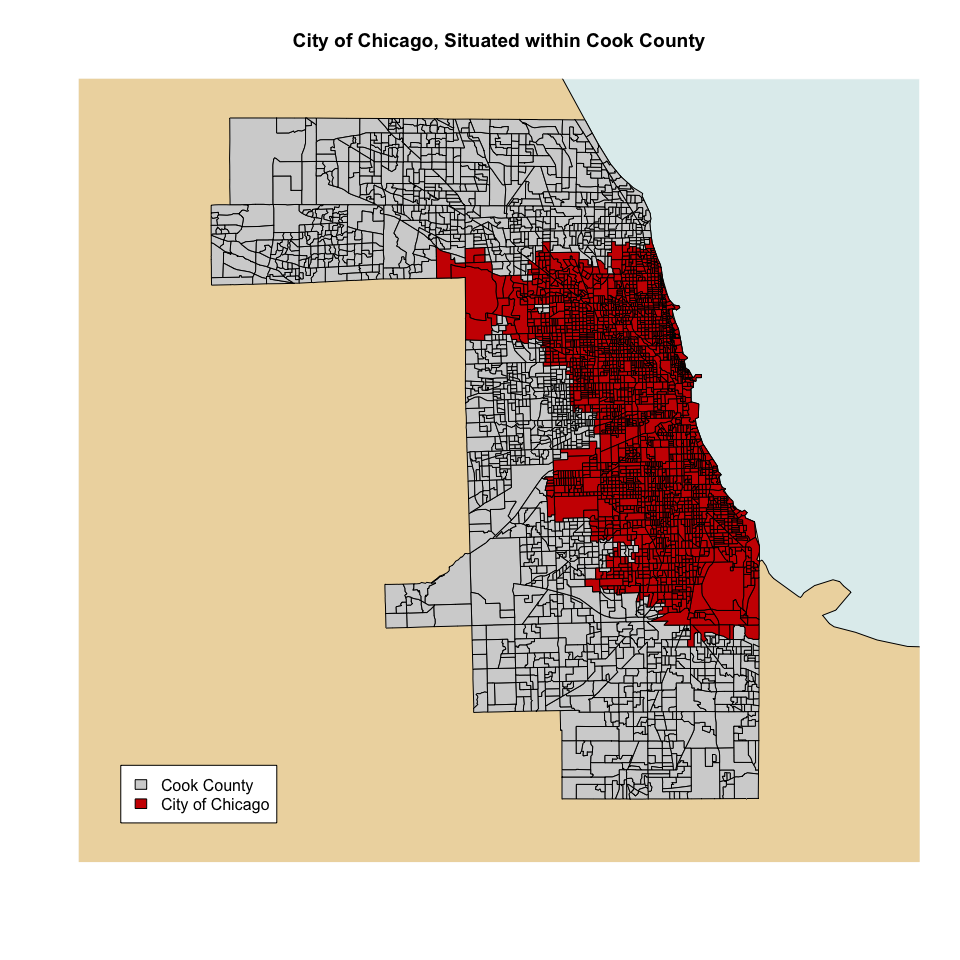
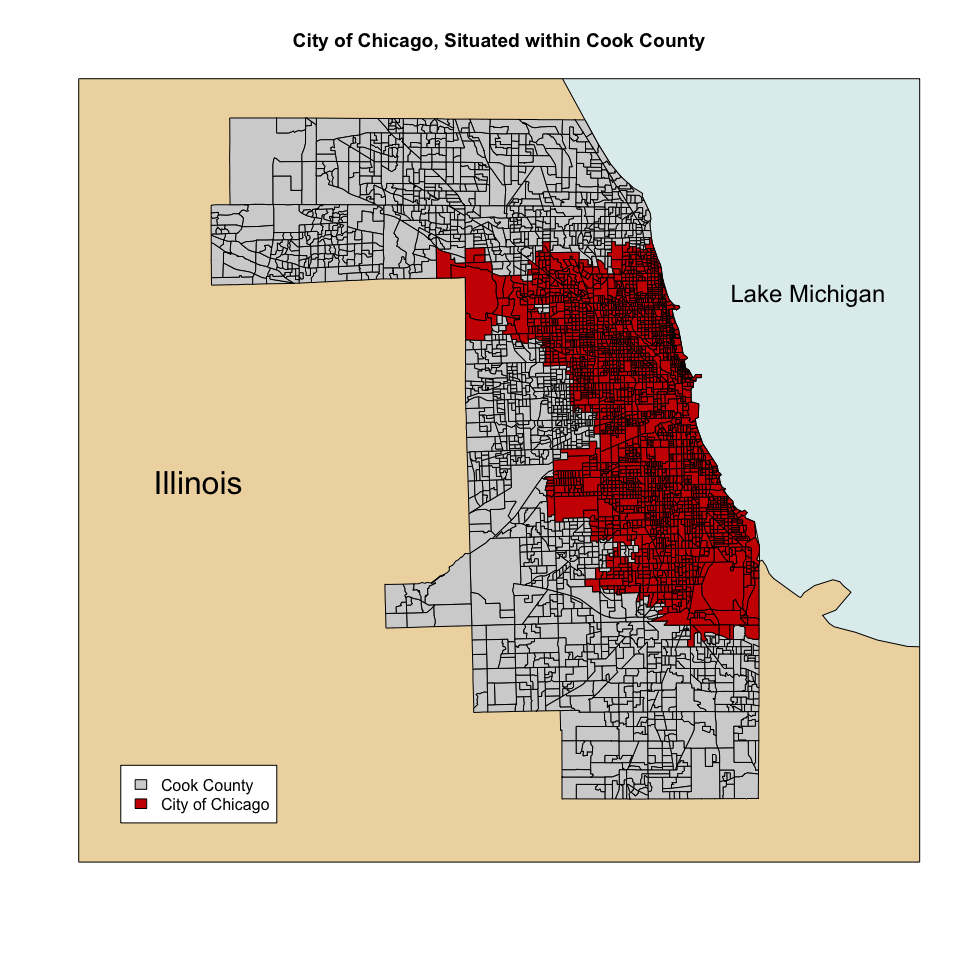
aesthetic changes to md.

Changed region(s): [[0.7812, 0.2812, 0.9062, 0.3125], [0.1562, 0.4688, 0.25, 0.5312]]

diff --git a/Magnet_Analysis.md b/Magnet_Analysis.md
@@ -2,7 +2,7 @@ Magnet Analysis
 ================
 Chad Evans
 
-Built with 3.3.2. Last run on 2017-06-02.
+Built with 3.3.2. Last run on 2017-06-03.
 
 -   [Set Up](#setup)
 -   [Chicago Map](#chicagomap)
@@ -96,9 +96,12 @@ Let's make sure all the spatial joins were done properly. First, let's plot all 
 
 ``` r
 plot(USA.shp, ylim=c(41.6, 42), xlim=c(-88.4, -87.35),col = "wheat2",bg="azure2", main="City of Chicago, Situated within Cook County")
+box()
 plot(cook.shp, add=T,col="lightgrey")
 plot(chiblocks.shp, add=T, col="red3")
-legend("bottomleft", inset=.05, c("Cook County","City of Chicago"), fill=c("lightgrey","red3"), horiz=FALSE, bg="white")  
+legend("bottomleft", inset=.05, c("Cook County","City of Chicago"), fill=c("lightgrey","red3"), horiz=FALSE, bg="white") 
+mtext("Illinois",side=1,line=-20,adj=.1,cex=2,col="black")
+mtext("Lake Michigan",side=1,line=-30,adj=.95,cex=1.5,col="black")
 ```
 
 <img src="graphs/Chicago_Cook_County_Map-1.png" width="500" height="500">
@@ -110,12 +113,14 @@ Let's highlight the areas of Chicago that are majority African American. The sou
 
 ``` r
 plot(USA.shp, ylim=c(41.6, 42), xlim=c(-88.4, -87.35),col = "wheat2",bg="azure2", main="African American Census Blocks in Cook County")
-box()
+#box()
 plot(chiblocks.shp, add=T, col="lightgrey")
 pctblack.shp=chiblocks.shp[!is.na(chiblocks.shp$PCTBLACK),]
 sel <- pctblack.shp$PCTBLACK > 0.50
 plot(pctblack.shp[sel, ], col = "turquoise", add = TRUE) # add selected zones to map
 legend("bottomleft", inset=.05, c("Blocks with Majority \n African Americans"), fill=c("turquoise"), horiz=FALSE, bg="white") 
+mtext("Illinois",side=1,line=-20,adj=.1,cex=2,col="black")
+mtext("Lake Michigan",side=1,line=-30,adj=.95,cex=1.5,col="black")
 ```
 
 <img src="graphs/Majority_Black_Census_Tracts_Map-1.png" width="500" height="500">
@@ -143,6 +148,8 @@ box()
 plot(chiblocks.shp, add=T,col="lightgrey")
 plot(chiblocks.shp[chiblocks.shp$PERCAPCRIME > .2, ], col = "orange", add = TRUE) # add selected zones to map
 legend("bottomleft", inset=.05, c("Blocks with > .2 \n crimes per ACS respondent"), fill=c("orange"), horiz=FALSE, bg="white") 
+mtext("Illinois",side=1,line=-20,adj=.1,cex=2,col="black")
+mtext("Lake Michigan",side=1,line=-30,adj=.95,cex=1.5,col="black")
 ```
 
 <img src="graphs/High_Crime_Census_Blocks_in_Chicago-1.png" width="500" height="500">
@@ -164,7 +171,9 @@ plot(USA.shp, ylim=c(41.64454, 42.02304), xlim=c(-87.94011, -87.52414),col = "wh
 box()
 plot(chiblocks.shp, add=T, col="lightgrey")
 plot(schools.shp, pch = 17, add=T, col="red")
-legend("bottomleft", inset=.05, pch = 17, c("Elementary School"), col="red", horiz=FALSE, bg="white")   
+legend("bottomleft", inset=.05, pch = 17, c("Elementary School"), col="red", horiz=FALSE, bg="white") 
+mtext("Illinois",side=1,line=-20,adj=.1,cex=2,col="black")
+mtext("Lake Michigan",side=1,line=-30,adj=.95,cex=1.5,col="black")
 ```
 
 <img src="graphs/Elem_Schools_in_Chicago_Map-1.png" width="500" height="500">
@@ -180,9 +189,9 @@ plot(magnets.shp, pch = 17, add=T, col="red",cex=1)
 plot(clusters.shp, pch = 17, add=T, col="blue",cex=1)
 plot(openenroll.shp, pch = 17, add=T, col="darkgreen",cex=1)
 legend("bottomleft", inset=.05, pch = c(17,17,17,15), c("Traditional Magnet","Magnet Cluster","Neighborhood School", "Chicago Census Block"), col=c("red","blue","darkgreen","lightgrey"), horiz=FALSE, cex=1)   
-mtext("Lake Michigan             ",side=1,line=-75,adj=1,cex=1.5,col="darkblue")
-mtext("Source: Chicago Public Schools Data Portal 2013-2014. Map excludes elementary charters, magnets that require admissions tests, \n small schools and special education schools.",side=1,line=3,adj=0,cex=2,col="black")
-mtext("           Illinois",side=1,line=-45,adj=0,cex=3,col="black")
+mtext("Illinois",side=1,line=-20,adj=.1,cex=2,col="black")
+mtext("Lake Michigan",side=1,line=-30,adj=.95,cex=1.5,col="black")
+mtext("Source: Chicago Public Schools Data Portal 2013-2014. Map excludes elementary charters, magnets that require admissions tests, small schools and special education schools.",side=1,line=3,adj=0,cex=.6,col="black")
 ```
 
 <img src="graphs/School_Types_Chicago_Color-1.png" width="500" height="500">
@@ -197,10 +206,10 @@ openenroll.shp<-schools.shp[schools.shp$Type2=="Open Enrollment", ]
 plot(magnets.shp, pch = 17, add=T, col="black",cex=1)
 plot(clusters.shp, pch = 17, add=T, col="gray44",cex=1)
 plot(openenroll.shp, pch = 17, add=T, col="grey64",cex=1)
-legend("bottomleft", inset=.05, pch = c(17,17,17,22), c("Traditional Magnet","Magnet Cluster","Neighborhood School", "Chicago Census Block"), col=c("black","gray44","gray64","black"), horiz=FALSE, cex=1)   
-mtext("Lake Michigan             ",side=1,line=-75,adj=1,cex=2.5,col="darkblue")
-mtext("Source: Chicago Public Schools Data Portal 2013-2014. Map excludes elementary charters, magnets that require admissions tests, \n small schools and special education schools.",side=1,line=3,adj=0,cex=2,col="black")
-mtext("           Illinois",side=1,line=-45,adj=0,cex=3,col="black")
+legend("bottomleft", inset=.05, pch = c(17,17,17,22), c("Traditional Magnet","Magnet Cluster","Neighborhood School", "Chicago Census Block"), col=c("black","gray44","gray64","black"), horiz=FALSE, cex=1)  
+mtext("Illinois",side=1,line=-20,adj=.1,cex=2,col="black")
+mtext("Lake Michigan",side=1,line=-30,adj=.95,cex=1.5,col="black")
+mtext("Source: Chicago Public Schools Data Portal 2013-2014. Map excludes elementary charters, magnets that require admissions tests, small schools and special education schools.",side=1,line=1,adj=0,cex=.6,col="black")
 ```
 
 <img src="graphs/School_Types_Chicago_BW-1.png" width="500" height="500">
@@ -258,7 +267,7 @@ theme(axis.text.x=element_text(angle=90, hjust=1))
 Descriptive Statistics
 ----------------------
 
-Correlation Plot
+### Correlations
 
 ``` r
 data %>% 
@@ -283,7 +292,7 @@ data %>% mutate(Cluster=data$Type2=="Magnet Cluster", Magnet=data$Type2=="Magnet
 
 High correlation between magnet status and measures of educational quality. There is virtually no correlation of magnet cluster with reading or math scores.
 
-### Descriptive Statistics
+### Summary Statistics
 
 ``` r
 Table<-data %>% 
